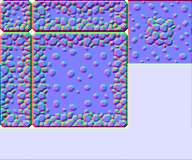
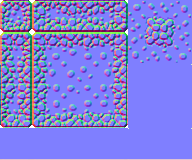
Implement light emitting from player shader

diff --git a/Scripts/Game1.cs b/Scripts/Game1.cs
@@ -14,6 +14,7 @@ global using Monogame_Cross_Platform.Scripts.GameObjects.Entities.Player;
 global using Monogame_Cross_Platform.Scripts.GameObjects.Entities.Enemy;
 global using Monogame_Cross_Platform.Scripts.GameObjects.Weapons;
 using Monogame_Cross_Platform.Scripts.Level;
+using System.Linq;
 
 namespace Monogame_Cross_Platform.Scripts
 {
@@ -42,6 +43,8 @@ namespace Monogame_Cross_Platform.Scripts
         internal static List<Particle> activeParticles = new List<Particle>();
         internal static List<ParticleEmitter> activeParticleEmitters = new List<ParticleEmitter>();
 
+
+        private FrameCounter _frameCounter = new FrameCounter();
         private Effect effect;
 
         static bool toExit = false;
@@ -65,6 +68,8 @@ namespace Monogame_Cross_Platform.Scripts
             player = new Player(5000, 250, new Vector2(177, 177), new Hitboxes.Hitbox(0, 0, 31, 31), 0); //Put this in a better spot inside of an initialize level function within update or smth
 
             effect = Content.Load<Effect>("C:/Users/User/source/repos/Monogame Cross Platform/bin/Debug/net6.0/Content/Shader");
+
+            IsFixedTimeStep = false; //TEMP
 
             //Settings.ApplySettingsToFile(); //TEMP
             Settings.InitializeSettings();
@@ -103,12 +108,12 @@ namespace Monogame_Cross_Platform.Scripts
                 GameState.Update(player);
             }
 
+            effect.Parameters["lightPosition"].SetValue(Vector3.Transform(new Vector3(player.position, -1f), camera.Transform));
+            effect.Parameters["lightColor"].SetValue(new Vector3(1.2f,1.2f,1f));
 
-            //if (camera.Transform != new Matrix())
-            //    effect.Parameters["lightPosition"].SetValue(Vector3.Transform(new Vector3(player.position, 0), camera.Transform));
+            //effect.Parameters["playerLightDirection"].SetValue(Vector3.Normalize(new Vector3((float)Math.Cos(player.inputHandler.GetShootingAngle(player.position)), (float)Math.Sin(player.inputHandler.GetShootingAngle(player.position)), 0)));
 
-
-            //debugText = player.health.ToString(); //TEMP
+            debugText = string.Format("FPS: {0}", _frameCounter.AverageFramesPerSecond); //TEMP
 
 
             Settings.UpdateZoom();
@@ -121,6 +126,9 @@ namespace Monogame_Cross_Platform.Scripts
         private static bool resetRenderTarget = false;
         protected override void Draw(GameTime gameTime)
         {
+
+            _frameCounter.Update((float)gameTime.ElapsedGameTime.TotalSeconds); //TEMP
+
             // Drawing everything to render target here
             if (resetRenderTarget)
             {
@@ -129,16 +137,16 @@ namespace Monogame_Cross_Platform.Scripts
             }
 
             GraphicsDevice.SetRenderTarget(renderTarget);
-            GraphicsDevice.Clear(Color.CornflowerBlue);
+            GraphicsDevice.Clear(Color.Black);
 
             drawEntities.BeginBuffer(camera);
 
             //Draws Tiles onto map rendering only the area visible to player
             if (GameState.isInGame)
             {
-                for (int x = (int)(player.position.X - _graphics.PreferredBackBufferWidth) / 32; x < (player.position.X + _graphics.PreferredBackBufferWidth) / 32; x++)
+                for (int x = (int)(player.position.X - _graphics.PreferredBackBufferWidth / 2) / 32; x < (player.position.X + _graphics.PreferredBackBufferWidth / 2) / 32; x++)
                 {
-                    for (int y = (int)(player.position.Y - _graphics.PreferredBackBufferHeight) / 32; y < (player.position.Y + _graphics.PreferredBackBufferHeight) / 32; y++)
+                    for (int y = (int)(player.position.Y - _graphics.PreferredBackBufferHeight / 2) / 32; y < (player.position.Y + _graphics.PreferredBackBufferHeight / 2) / 32; y++)
                     {
                         if (x >= 0 && y >= 0 && x <= 512 && y <= 512)
                             drawEntities.AddToDrawBuffer(TileMap.tileMap[x, y], x, y);
@@ -148,7 +156,8 @@ namespace Monogame_Cross_Platform.Scripts
                 drawEntities.AddToDrawBuffer(activeParticles);
             }
 
-            effect.Parameters["AmbientColor"].SetValue(0.7f); //this passes to the shader when no vertex atleast
+            effect.Parameters["AmbientColor"].SetValue(0.6f); //this passes to the shader when no vertex atleast
+
 
             if (camera.Transform != new Matrix())
                 effect.Parameters["MatrixTransform"].SetValue(camera.Transform);
@@ -170,12 +179,13 @@ namespace Monogame_Cross_Platform.Scripts
 
 
             drawEntities.spriteBatch.Draw(renderTarget, new Rectangle(0, 0, _graphics.PreferredBackBufferWidth, _graphics.PreferredBackBufferHeight), Color.White);
-            //drawEntities.spriteBatch.DrawString(font, debugText, new Vector2(400, 400), Color.DarkBlue); //draws debug text
+            drawEntities.spriteBatch.DrawString(font, debugText, new Vector2(400, 400), Color.DarkBlue); //draws debug text
             drawEntities.DrawBuffer();
 
             drawEntities.BeginUiBuffer();
             drawEntities.AddToUiBuffer(menus); //draws menus
             drawEntities.DrawUiBuffer();
+
 
             base.Draw(gameTime);
         }
@@ -187,6 +197,39 @@ namespace Monogame_Cross_Platform.Scripts
         public static void ResetRenderTarget()
         {
             resetRenderTarget = true;
+        }
+    }
+
+
+    public class FrameCounter
+    {
+        public long TotalFrames { get; private set; }
+        public float TotalSeconds { get; private set; }
+        public float AverageFramesPerSecond { get; private set; }
+        public float CurrentFramesPerSecond { get; private set; }
+
+        public const int MaximumSamples = 100;
+
+        private Queue<float> _sampleBuffer = new();
+
+        public void Update(float deltaTime)
+        {
+            CurrentFramesPerSecond = 1.0f / deltaTime;
+
+            _sampleBuffer.Enqueue(CurrentFramesPerSecond);
+
+            if (_sampleBuffer.Count > MaximumSamples)
+            {
+                _sampleBuffer.Dequeue();
+                AverageFramesPerSecond = _sampleBuffer.Average(i => i);
+            }
+            else
+            {
+                AverageFramesPerSecond = CurrentFramesPerSecond;
+            }
+
+            TotalFrames++;
+            TotalSeconds += deltaTime;
         }
     }
 }

diff --git a/Scripts/ContentManagers/ContentLoader.cs b/Scripts/ContentManagers/ContentLoader.cs
@@ -34,29 +34,34 @@ namespace Monogame_Cross_Platform.Scripts.ContentManagers
             if (contentListToLoad == "AlwaysLoaded")
                 foreach ((string, Rectangle, ushort) texture in contentList.GetAlwaysLoadedTextures())
                 {
-                    tileTexturesLoaded[texture.Item3] = (alwaysLoadedcontentManager.Load<Texture2D>("C:/Users/User/source/repos/Monogame Cross Platform/bin/Debug/net6.0/Content/Graphics/" + texture.Item1), texture.Item2, null);
-                    if (File.Exists("C:/Users/User/source/repos/Monogame Cross Platform/bin/Debug/net6.0/Content/NormalMaps/" + texture.Item1 + "_normal"))
+                    tileTexturesLoaded[texture.Item3] = (alwaysLoadedcontentManager.Load<Texture2D>("Content/Graphics/" + texture.Item1), texture.Item2, null);
+                    if (Exists("NormalMaps/" + texture.Item1 + "_normal"))
                     {
-                        tileTexturesLoaded[texture.Item3].normalMap = alwaysLoadedcontentManager.Load<Texture2D>("C:/Users/User/source/repos/Monogame Cross Platform/bin/Debug/net6.0/Content/NormalMaps/" + texture.Item1 + "_normal");
+                        tileTexturesLoaded[texture.Item3].normalMap = alwaysLoadedcontentManager.Load<Texture2D>("Content/NormalMaps/" + texture.Item1 + "_normal");
                     }
                 }
             else if (contentListToLoad == "OtherTextures")
                 foreach ((string, Rectangle, ushort) texture in contentList.GetOtherTextures())
                 {
-                    otherTexturesLoaded[texture.Item3] = (game.Content.Load<Texture2D>("C:/Users/User/source/repos/Monogame Cross Platform/bin/Debug/net6.0/Content/Other/" + texture.Item1), texture.Item2, null);
-                    if (File.Exists("C:/Users/User/source/repos/Monogame Cross Platform/bin/Debug/net6.0/Content/NormalMaps/" + texture.Item1 + "_normal"))
+                    otherTexturesLoaded[texture.Item3] = (game.Content.Load<Texture2D>("Other/" + texture.Item1), texture.Item2, null);
+                    if (Exists("NormalMaps/" + texture.Item1 + "_normal"))
                     {
-                        otherTexturesLoaded[texture.Item3].normalMap = alwaysLoadedcontentManager.Load<Texture2D>("C:/Users/User/source/repos/Monogame Cross Platform/bin/Debug/net6.0/Content/NormalMaps/" + texture.Item1 + "_normal");
+                        otherTexturesLoaded[texture.Item3].normalMap = alwaysLoadedcontentManager.Load<Texture2D>("Content/NormalMaps/" + texture.Item1 + "_normal");
                     }
                 }
             else if (contentListToLoad == "Audio")
             {
                 foreach ((string, ushort) audio in contentList.GetAudio())
                 {
-                    audioLoaded[audio.Item2] = game.Content.Load<SoundEffect>("C:/Users/User/source/repos/Monogame Cross Platform/bin/Debug/net6.0/Content/Audio/" + audio.Item1);
+                    audioLoaded[audio.Item2] = game.Content.Load<SoundEffect>("Audio/" + audio.Item1);
                 }
             }
             else Console.WriteLine("Invalid string loaded check where you call LoadTextures as you are loading a non existant ContentList");
+        }
+
+        public static bool Exists(string path)
+        {
+            return File.Exists($@"Content\{path}.xnb");
         }
 
         public void UnloadTextures()

diff --git a/Scripts/ContentManagers/ContentList.cs b/Scripts/ContentManagers/ContentList.cs
@@ -19,7 +19,7 @@ namespace Monogame_Cross_Platform.Scripts.ContentManagers
         //Arrays of all textures to load, texturetype indicates how the texture should be loaded, 0 loads as a tileset (currently 4x4 like cooblestone texture, TODO: make type 1 load a spritesheet (figure out how)
 
         static ushort tileTextureCount = 119;
-        private (string textureName, ushort startingIndex, byte textureType)[] AlwaysLoadedTextures = { ("cobblestone", 0, 0), ("cobblestone wall testing", 30, 0), ("ice floor", 60, 0), ("ice wall", 90, 0), ("electricWeapon", (ushort)(tileTextureCount + 1), 2) };
+        private (string textureName, ushort startingIndex, byte textureType)[] AlwaysLoadedTextures = { ("cobblestone", 0, 0), ("cobblestone wall", 30, 0), ("ice floor", 60, 0), ("ice wall", 90, 0), ("electricWeapon", (ushort)(tileTextureCount + 1), 2) };
 
         private (string textureName, ushort startingIndex, byte textureType)[] OtherTextures = { ("minimapBG", 1, 1), ("minimapBG", 1, 1), ("hotBar", 2, 1), ("quitButton", 3, 3), ("startButton", 7, 3), ("resumeButton", 11, 3), ("menuButton", 15, 3), ("settingsButton", 19, 3)
                                                                                                 ,("resolutionBG", 23, 1), ("activeResolutions", 24, 4), ("inactiveResolutions", 34, 4), ("applyButton", 44, 3), ("fullscreenButton", 48, 3), ("minimapIcons", 52, 5)

diff --git a/Scripts/GameObjects/Entities/DrawThings.cs b/Scripts/GameObjects/Entities/DrawThings.cs
@@ -36,7 +36,7 @@ namespace Monogame_Cross_Platform.Scripts.GameObjects.Entities
         }
         public void AddToDrawBuffer(Tile tile, int tileMapX, int tileMapY)
         {
-            (Texture2D texture, Rectangle rectangle, Texture2D normalMap /*TODO IMPLEMENT THIS*/) = ContentLoader.GetLoadedTileTexture(tile.textureIndex);
+            (Texture2D texture, Rectangle rectangle, Texture2D normalMap) = ContentLoader.GetLoadedTileTexture(tile.textureIndex);
             float rot = 0f;
             if ((tile.textureIndex + 20) % 30 == 0)
             {

diff --git a/Scripts/GameObjects/Tiles/TileMap.cs b/Scripts/GameObjects/Tiles/TileMap.cs
@@ -34,8 +34,8 @@ namespace Monogame_Cross_Platform.Scripts.GameObjects.Tiles
                 for (int x = 0; x < 512; x++)
                 {
                     tileMap[x, y] = tile;
-                    byte rand = (byte)random.Next(0, 4);
-                    tileMap[x, y].rotation = rand;
+                    //byte rand = (byte)random.Next(0, 4);
+                    //tileMap[x, y].rotation = rand;
                 }
             }
         }

diff --git a/Scripts/GameObjects/Entities/Player/Player.cs b/Scripts/GameObjects/Entities/Player/Player.cs
@@ -14,7 +14,7 @@ namespace Monogame_Cross_Platform.Scripts.GameObjects.Entities.Player
     /// </summary>
     internal class Player : Entity
     {
-        HandlePlayerInputs inputHandler = new HandlePlayerInputs();
+        public HandlePlayerInputs inputHandler = new HandlePlayerInputs();
         public bool isInLevelEditorMode = false;
         public List<Weapon> weapons = new List<Weapon>();
         public short activeWeaponIndex = 0;
